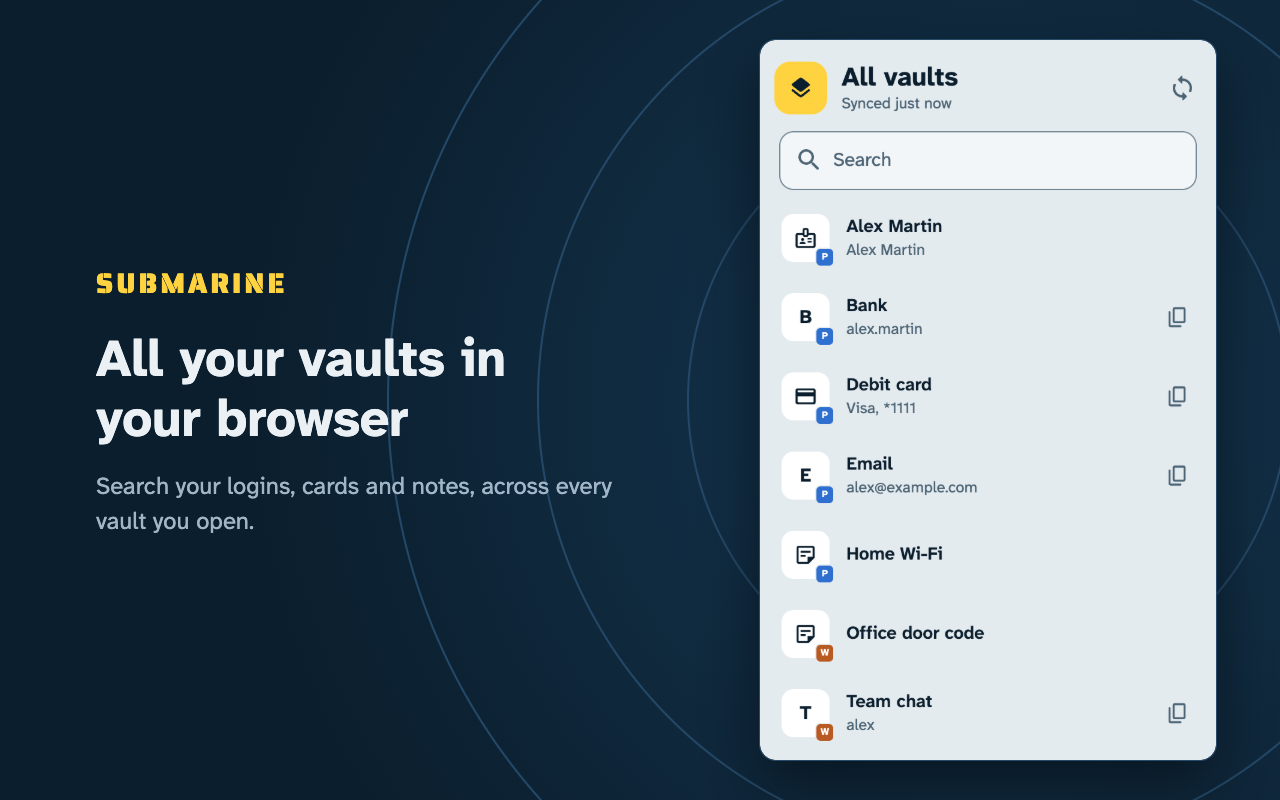
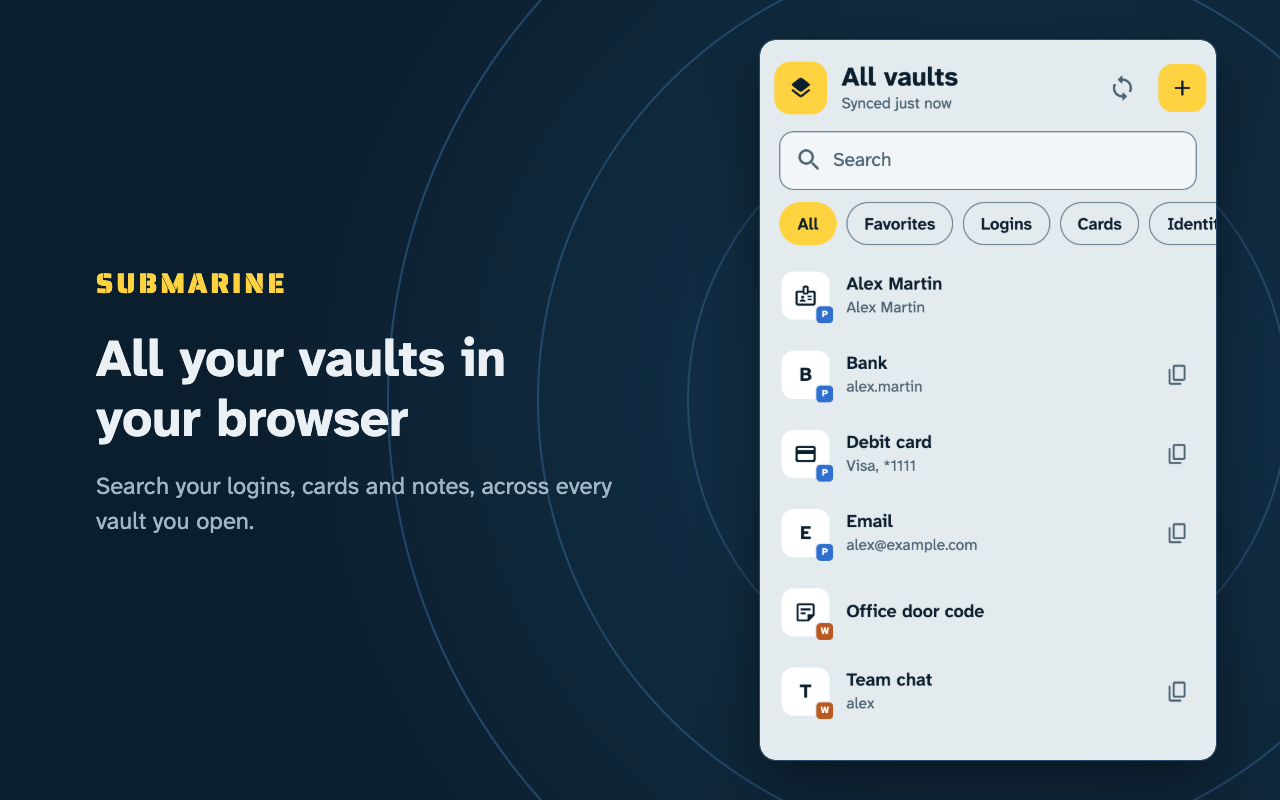
docs(extension): show the generator and email addresses in the store screenshots
Five screenshots instead of four: the generator in a new login and a login's
inbox replace the card detail, whose caption still described a read-only
extension. The script goes back to all vaults after opening the second one,
which now opens that vault, and the e2e tests share its mail relay helper.

diff --git a/apps/extension/e2e/screenshots.ts b/apps/extension/e2e/screenshots.ts
@@ -5,9 +5,10 @@
 import { mkdir, readFile, writeFile } from "node:fs/promises";
 import { resolve } from "node:path";
 import { generateSecretKey, nip19 } from "nostr-tools";
+import * as nip59 from "nostr-tools/nip59";
 import type { Browser } from "puppeteer";
-import { type Extension, launch } from "./extension.ts";
-import { startRelay } from "./relay.ts";
+import { type Extension, launch, localMailRelays } from "./extension.ts";
+import { publish, startRelay } from "./relay.ts";
 import { setTheme } from "./theme.ts";
 import { publishItems } from "./vault-items.ts";
 
@@ -49,7 +50,6 @@ await publishItems(personal, [
       code: "123",
     },
   },
-  { type: 2, name: "Home Wi-Fi", notes: "Network: Lighthouse", secureNote: { type: 0 } },
   {
     type: 4,
     name: "Alex Martin",
@@ -79,7 +79,10 @@ try {
   await extension.click("button[aria-label=Vaults]");
   await extension.click(".drawer button::-p-text(Add a vault)");
   await openVault(extension, work, "Work");
-  await popup.waitForFunction(() => document.querySelectorAll(".item-row").length === 7, {
+  await extension.click("button[aria-label=Vaults]");
+  await extension.click(".drawer [role=row]::-p-text(All vaults)");
+  await popup.waitForSelector("[role=dialog]", { hidden: true });
+  await popup.waitForFunction(() => document.querySelectorAll(".item-row").length === 6, {
     timeout: 30_000,
   });
   await mkdir(out, { recursive: true });
@@ -102,9 +105,57 @@ try {
   ]);
   await extension.press("Escape");
 
-  await extension.click(".item-row[aria-label='Debit card']");
-  await shoot(extension, "light", 3, "Every item, in detail", [
-    "Cards, notes, identities and SSH keys, as you saved them in the Submarine app.",
+  await localMailRelays(popup, true);
+  await extension.click("button[aria-label='New item']");
+  await extension.click("[role=menuitem]::-p-text(Login)");
+  await extension.fill(".item-form input[name=name]", "Shop");
+  await extension.fill(".item-form input[name=username]", "alex.martin");
+  await extension.click("button[aria-label='Generate a password']");
+  await popup.waitForSelector(".sheet .generator-preview .field-value");
+  await shoot(extension, "light", 3, "Strong passwords, made for you", [
+    "Generate passwords, passphrases and usernames as you fill in a login.",
+  ]);
+  await extension.click(".sheet button::-p-text(Use this password)");
+  await popup.waitForSelector(".sheet", { hidden: true });
+  await extension.click("button::-p-text(Add a field)");
+  await extension.click("[role=menuitem]::-p-text(Email address)");
+  await popup.waitForSelector(".custom-field");
+  await extension.click(".item-form .page-bar button[type=submit]");
+  await popup.waitForSelector(".item-form", { hidden: true });
+  await popup.waitForSelector(".inbox ::-p-text(No messages yet)");
+  const address = await popup.$$eval(".item-detail .field-value", (values) =>
+    values.map((value) => value.textContent).find((text) => text?.includes("@")),
+  );
+  const mailbox = nip19.decode(address?.split("@")[0] ?? "").data as string;
+  const bridge = generateSecretKey();
+  const emails = [
+    [3 * 24 * 60, "Welcome to Shop", "Your account is ready."],
+    [5, "Confirm your address", "Confirm at https://shop.example/confirm?code=482913."],
+    [1, "Your sign-in code", "Your code is 482913."],
+  ] as const;
+  for (const [minutesAgo, subject, text] of emails) {
+    const rumor = {
+      kind: 1301,
+      created_at: Math.floor(Date.now() / 1000) - minutesAgo * 60,
+      content: [
+        "From: Shop <noreply@shop.example>",
+        `To: ${address}`,
+        `Subject: ${subject}`,
+        "Content-Type: text/plain; charset=utf-8",
+        "",
+        text,
+      ].join("\r\n"),
+    };
+    await publish(nip59.wrapEvent(rumor, bridge, mailbox));
+  }
+  await popup.waitForFunction(
+    (count) => document.querySelectorAll(".inbox-message").length === count,
+    { timeout: 30_000 },
+    emails.length,
+  );
+  await popup.$eval(".inbox", (inbox) => inbox.scrollIntoView({ block: "end" }));
+  await shoot(extension, "dark", 4, "An email address for each login", [
+    "Read the sign-up codes and confirmation links it receives, right in the login.",
   ]);
   await extension.press("Escape");
 
@@ -118,7 +169,7 @@ try {
   await extension.press("Escape");
   await extension.click("button[aria-label=Lock]");
   await popup.waitForSelector("input[name=password]");
-  await shoot(extension, "dark", 4, "Locked while you are away", [
+  await shoot(extension, "light", 5, "Locked while you are away", [
     "Behind your password, after the delay you choose.",
   ]);
 } finally {

diff --git a/apps/extension/e2e/extension.test.ts b/apps/extension/e2e/extension.test.ts
@@ -8,7 +8,13 @@ import type { Page } from "puppeteer";
 import { afterAll, beforeAll, describe, expect, it } from "vitest";
 import { fillPage } from "../lib/fill-page";
 import { violations } from "./axe";
-import { type BrowserName, type Extension, launch, openPopupOver } from "./extension";
+import {
+  type BrowserName,
+  type Extension,
+  launch,
+  localMailRelays,
+  openPopupOver,
+} from "./extension";
 import { publish, relayUrl, startRelay } from "./relay";
 import { publishItems } from "./vault-items";
 
@@ -523,25 +529,6 @@ describe.each<BrowserName>(["chrome", "firefox"])("%s", (name) => {
     );
   const save = ".item-form .page-bar button[type=submit]";
 
-  /** Points the relays of new email addresses at the local relay, or back to their defaults. */
-  const localMailRelays = (local: boolean) =>
-    extension.popup.evaluate(
-      async (local, relay) => {
-        type Api = { runtime: { sendMessage(message: unknown): Promise<string> } };
-        const globals = globalThis as unknown as { browser?: Api; chrome: Api };
-        const { runtime } = globals.browser ?? globals.chrome;
-        const { result: settings } = JSON.parse(
-          await runtime.sendMessage({ method: "mailSettings" }),
-        );
-        for (const list of ["address", "inbox"]) {
-          const urls = local ? [relay] : settings[list].defaults;
-          await runtime.sendMessage({ method: "setMailList", args: { list, urls } });
-        }
-      },
-      local,
-      relayUrl,
-    );
-
   it("creates a login from the New item menu, and shows it once saved", async () => {
     const { popup } = extension;
     await extension.click("button[aria-label='New item']");
@@ -576,7 +563,7 @@ describe.each<BrowserName>(["chrome", "firefox"])("%s", (name) => {
       "Move First name",
     );
     expect(await violations(popup)).toEqual([]);
-    await localMailRelays(true);
+    await localMailRelays(popup, true);
     await extension.click("button::-p-text(Add a field)");
     await extension.click(`[role=menuitem]::-p-text(${english.emailAddressField})`);
     await popup.waitForFunction(() => document.querySelectorAll(".custom-field").length === 4);
@@ -596,7 +583,7 @@ describe.each<BrowserName>(["chrome", "firefox"])("%s", (name) => {
       english.email,
       english.mailboxKey,
     ]);
-    await localMailRelays(false);
+    await localMailRelays(popup, false);
     await extension.press("Escape");
     await rowNames("Forum,GitHub,Visa,wifi");
   });

diff --git a/apps/extension/e2e/extension.ts b/apps/extension/e2e/extension.ts
@@ -1,6 +1,7 @@
 import { createServer } from "node:http";
 import { resolve } from "node:path";
 import puppeteer, { type Browser, type ElementHandle, type KeyInput, type Page } from "puppeteer";
+import { relayUrl } from "./relay.ts";
 
 export type BrowserName = "chrome" | "firefox";
 
@@ -174,6 +175,26 @@ export async function openPopupOver(
   const popup = await (await opened).asPage();
   await popup.waitForSelector("#root > *");
   return { page, popup };
+}
+
+/** Points the relays of new email addresses at the local relay, or back to their defaults. */
+export function localMailRelays(popup: Page, local: boolean): Promise<void> {
+  return popup.evaluate(
+    async (local, relay) => {
+      type Api = { runtime: { sendMessage(message: unknown): Promise<string> } };
+      const globals = globalThis as unknown as { browser?: Api; chrome: Api };
+      const { runtime } = globals.browser ?? globals.chrome;
+      const { result: settings } = JSON.parse(
+        await runtime.sendMessage({ method: "mailSettings" }),
+      );
+      for (const list of ["address", "inbox"]) {
+        const urls = local ? [relay] : settings[list].defaults;
+        await runtime.sendMessage({ method: "setMailList", args: { list, urls } });
+      }
+    },
+    local,
+    relayUrl,
+  );
 }
 
 /**

diff --git a/apps/extension/store/listing.md b/apps/extension/store/listing.md
@@ -40,7 +40,7 @@ No independent firm has audited Submarine's security yet. Until one does, keep y
 
 ## Images
 
-- `screenshot-1.png` to `screenshot-4.png`, 1280 by 800, in both stores.
+- `screenshot-1.png` to `screenshot-5.png`, 1280 by 800, in both stores.
 - `promo-tile.png`, 440 by 280: the small promo tile the Chrome Web Store requires.
 
 ## Chrome Web Store privacy
